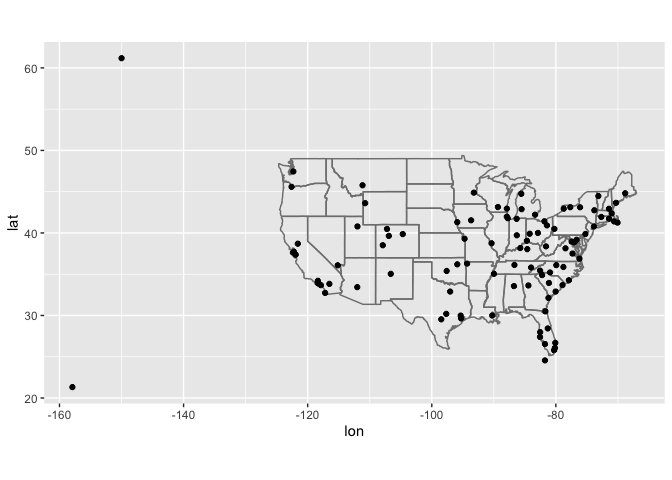
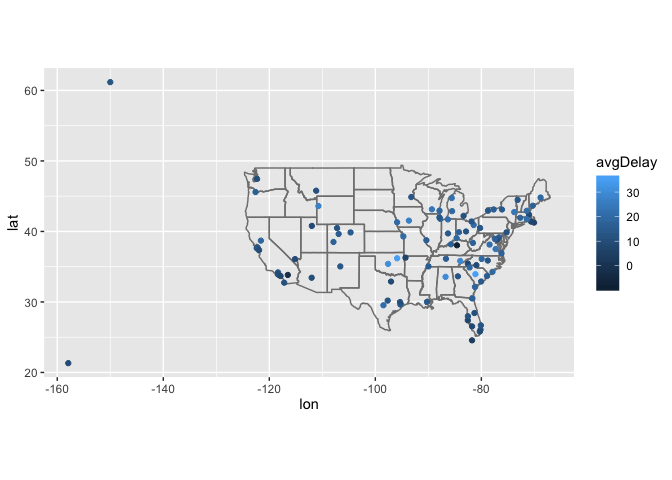
my changes

diff --git a/README.md b/README.md
@@ -1,43 +1,95 @@
 Midterm.
 --------
 
-#### 1. Map the delay by destination.
+\#install.packages(“maps”) \#\#\#\# 1. Map the delay by destination.
 
 Compute the average delay by destination, then join on the airports data
 frame so you can show the spatial distribution of delays. Here’s an easy
 way to draw a map of the United States. You are welcome to use this code
 or some other code.
 
+    #flights
+    #planes
+    #airlines
+    #airports
+    #weather
     library(tidyverse)
 
-    ## ── Attaching packages ────────────────────────────────── tidyverse 1.3.0 ──
+    ## ── Attaching packages ─────────────────────────────────────── tidyverse 1.3.0 ──
 
     ## ✓ ggplot2 3.2.1     ✓ purrr   0.3.3
-    ## ✓ tibble  2.1.3     ✓ dplyr   0.8.3
-    ## ✓ tidyr   1.0.0     ✓ stringr 1.4.0
+    ## ✓ tibble  2.1.3     ✓ dplyr   0.8.4
+    ## ✓ tidyr   1.0.2     ✓ stringr 1.4.0
     ## ✓ readr   1.3.1     ✓ forcats 0.4.0
 
-    ## ── Conflicts ───────────────────────────────────── tidyverse_conflicts() ──
+    ## ── Conflicts ────────────────────────────────────────── tidyverse_conflicts() ──
     ## x dplyr::filter() masks stats::filter()
     ## x dplyr::lag()    masks stats::lag()
 
     library(nycflights13)
+    flights = nycflights13::flights
+
+
+    flights2 = flights %>% group_by(dest) %>%
+      summarize(avgDelay = mean(dep_delay, na.rm = TRUE)) 
 
     airports %>%
-      semi_join(flights, c("faa" = "dest")) %>%
+      right_join(flights2,c("faa" = "dest")) %>%
       ggplot(aes(lon, lat)) +
-      borders("state") +
-      geom_point() +
+      borders("state")+ 
+      geom_point(aes(colour = avgDelay)) +
+      scale_size_area()+
       coord_quickmap()
+
+    ## Warning: Removed 4 rows containing missing values (geom_point).
 
 ![](README_files/figure-markdown_strict/unnamed-chunk-1-1.png)
 
-You might want to use the size or colour of the points to display the
-average delay for each airport.
+#### 2. Do planes trade ownership?
 
-    flights
+You might expect that there’s an implicit relationship between plane and
+airline, because each plane is flown by a single airline. Confirm or
+reject this conjecture using data.
 
-    ## # A tibble: 336,776 x 19
+This analysis shows that there are duplicated tailnums used by each
+unique airline/tailnum pair. Therefore each plane is not flown by a
+single airline so I reject this conjecture
+
+    planes_unique = planes %>% left_join(flights, "tailnum")
+    planes2 = planes_unique %>% select(carrier, tailnum) %>%
+      distinct()
+    planes2
+
+    ## # A tibble: 3,339 x 2
+    ##    carrier tailnum
+    ##    <chr>   <chr>  
+    ##  1 EV      N10156 
+    ##  2 US      N102UW 
+    ##  3 US      N103US 
+    ##  4 US      N104UW 
+    ##  5 EV      N10575 
+    ##  6 US      N105UW 
+    ##  7 US      N107US 
+    ##  8 US      N108UW 
+    ##  9 US      N109UW 
+    ## 10 US      N110UW 
+    ## # … with 3,329 more rows
+
+    planes2$tailnum[duplicated(planes2$tailnum)]
+
+    ##  [1] "N146PQ" "N153PQ" "N176PQ" "N181PQ" "N197PQ" "N200PQ" "N228PQ" "N232PQ"
+    ##  [9] "N933AT" "N935AT" "N977AT" "N978AT" "N979AT" "N981AT" "N989AT" "N990AT"
+    ## [17] "N994AT"
+
+#### 3. Plane’s average speed.
+
+Notice that `flights$air_time` is in minutes. Make a new column that is
+the air time in hours.
+
+    flights_1 = flights %>% mutate(air_timeHours = (air_time / 60))
+    flights_1
+
+    ## # A tibble: 336,776 x 20
     ##     year month   day dep_time sched_dep_time dep_delay arr_time sched_arr_time
     ##    <int> <int> <int>    <int>          <int>     <dbl>    <int>          <int>
     ##  1  2013     1     1      517            515         2      830            819
@@ -50,100 +102,10 @@ average delay for each airport.
     ##  8  2013     1     1      557            600        -3      709            723
     ##  9  2013     1     1      557            600        -3      838            846
     ## 10  2013     1     1      558            600        -2      753            745
-    ## # … with 336,766 more rows, and 11 more variables: arr_delay <dbl>,
+    ## # … with 336,766 more rows, and 12 more variables: arr_delay <dbl>,
     ## #   carrier <chr>, flight <int>, tailnum <chr>, origin <chr>, dest <chr>,
-    ## #   air_time <dbl>, distance <dbl>, hour <dbl>, minute <dbl>, time_hour <dttm>
-
-    planes
-
-    ## # A tibble: 3,322 x 9
-    ##    tailnum  year type          manufacturer   model  engines seats speed engine 
-    ##    <chr>   <int> <chr>         <chr>          <chr>    <int> <int> <int> <chr>  
-    ##  1 N10156   2004 Fixed wing m… EMBRAER        EMB-1…       2    55    NA Turbo-…
-    ##  2 N102UW   1998 Fixed wing m… AIRBUS INDUST… A320-…       2   182    NA Turbo-…
-    ##  3 N103US   1999 Fixed wing m… AIRBUS INDUST… A320-…       2   182    NA Turbo-…
-    ##  4 N104UW   1999 Fixed wing m… AIRBUS INDUST… A320-…       2   182    NA Turbo-…
-    ##  5 N10575   2002 Fixed wing m… EMBRAER        EMB-1…       2    55    NA Turbo-…
-    ##  6 N105UW   1999 Fixed wing m… AIRBUS INDUST… A320-…       2   182    NA Turbo-…
-    ##  7 N107US   1999 Fixed wing m… AIRBUS INDUST… A320-…       2   182    NA Turbo-…
-    ##  8 N108UW   1999 Fixed wing m… AIRBUS INDUST… A320-…       2   182    NA Turbo-…
-    ##  9 N109UW   1999 Fixed wing m… AIRBUS INDUST… A320-…       2   182    NA Turbo-…
-    ## 10 N110UW   1999 Fixed wing m… AIRBUS INDUST… A320-…       2   182    NA Turbo-…
-    ## # … with 3,312 more rows
-
-    airlines
-
-    ## # A tibble: 16 x 2
-    ##    carrier name                       
-    ##    <chr>   <chr>                      
-    ##  1 9E      Endeavor Air Inc.          
-    ##  2 AA      American Airlines Inc.     
-    ##  3 AS      Alaska Airlines Inc.       
-    ##  4 B6      JetBlue Airways            
-    ##  5 DL      Delta Air Lines Inc.       
-    ##  6 EV      ExpressJet Airlines Inc.   
-    ##  7 F9      Frontier Airlines Inc.     
-    ##  8 FL      AirTran Airways Corporation
-    ##  9 HA      Hawaiian Airlines Inc.     
-    ## 10 MQ      Envoy Air                  
-    ## 11 OO      SkyWest Airlines Inc.      
-    ## 12 UA      United Air Lines Inc.      
-    ## 13 US      US Airways Inc.            
-    ## 14 VX      Virgin America             
-    ## 15 WN      Southwest Airlines Co.     
-    ## 16 YV      Mesa Airlines Inc.
-
-    airports
-
-    ## # A tibble: 1,458 x 8
-    ##    faa   name                       lat    lon   alt    tz dst   tzone          
-    ##    <chr> <chr>                    <dbl>  <dbl> <dbl> <dbl> <chr> <chr>          
-    ##  1 04G   Lansdowne Airport         41.1  -80.6  1044    -5 A     America/New_Yo…
-    ##  2 06A   Moton Field Municipal A…  32.5  -85.7   264    -6 A     America/Chicago
-    ##  3 06C   Schaumburg Regional       42.0  -88.1   801    -6 A     America/Chicago
-    ##  4 06N   Randall Airport           41.4  -74.4   523    -5 A     America/New_Yo…
-    ##  5 09J   Jekyll Island Airport     31.1  -81.4    11    -5 A     America/New_Yo…
-    ##  6 0A9   Elizabethton Municipal …  36.4  -82.2  1593    -5 A     America/New_Yo…
-    ##  7 0G6   Williams County Airport   41.5  -84.5   730    -5 A     America/New_Yo…
-    ##  8 0G7   Finger Lakes Regional A…  42.9  -76.8   492    -5 A     America/New_Yo…
-    ##  9 0P2   Shoestring Aviation Air…  39.8  -76.6  1000    -5 U     America/New_Yo…
-    ## 10 0S9   Jefferson County Intl     48.1 -123.    108    -8 A     America/Los_An…
-    ## # … with 1,448 more rows
-
-    weather
-
-    ## # A tibble: 26,115 x 15
-    ##    origin  year month   day  hour  temp  dewp humid wind_dir wind_speed
-    ##    <chr>  <int> <int> <int> <int> <dbl> <dbl> <dbl>    <dbl>      <dbl>
-    ##  1 EWR     2013     1     1     1  39.0  26.1  59.4      270      10.4 
-    ##  2 EWR     2013     1     1     2  39.0  27.0  61.6      250       8.06
-    ##  3 EWR     2013     1     1     3  39.0  28.0  64.4      240      11.5 
-    ##  4 EWR     2013     1     1     4  39.9  28.0  62.2      250      12.7 
-    ##  5 EWR     2013     1     1     5  39.0  28.0  64.4      260      12.7 
-    ##  6 EWR     2013     1     1     6  37.9  28.0  67.2      240      11.5 
-    ##  7 EWR     2013     1     1     7  39.0  28.0  64.4      240      15.0 
-    ##  8 EWR     2013     1     1     8  39.9  28.0  62.2      250      10.4 
-    ##  9 EWR     2013     1     1     9  39.9  28.0  62.2      260      15.0 
-    ## 10 EWR     2013     1     1    10  41    28.0  59.6      260      13.8 
-    ## # … with 26,105 more rows, and 5 more variables: wind_gust <dbl>, precip <dbl>,
-    ## #   pressure <dbl>, visib <dbl>, time_hour <dttm>
-
-    # put your answer here.
-
-#### 2. Do planes trade ownership?
-
-You might expect that there’s an implicit relationship between plane and
-airline, because each plane is flown by a single airline. Confirm or
-reject this conjecture using data.
-
-    # put your answer here. 
-
-#### 3. Plane’s average speed.
-
-Notice that `flights$air_time` is in minutes. Make a new column that is
-the air time in hours.
-
-    # put your answer here.  
+    ## #   air_time <dbl>, distance <dbl>, hour <dbl>, minute <dbl>, time_hour <dttm>,
+    ## #   air_timeHours <dbl>
 
 #### 4. Average speed
 
@@ -152,7 +114,17 @@ hour). Then, for each plane, compute the average of those average
 speeds. Display it in a histogram. You can use a base R histogram `hist`
 or ggplot’s `geom_histogram`.
 
-    # put your answer here.  
+    flights_1 %>% mutate(avgSpeed = distance/air_timeHours)%>%
+      group_by(tailnum)%>%
+      summarize(avgAllPlanes = mean(avgSpeed, na.rm=TRUE)) %>%
+      ggplot(aes(avgAllPlanes))+
+      geom_histogram()
+
+    ## `stat_bin()` using `bins = 30`. Pick better value with `binwidth`.
+
+    ## Warning: Removed 7 rows containing non-finite values (stat_bin).
+
+![](README_files/figure-markdown_strict/unnamed-chunk-4-1.png)
 
 #### 5. What correlates with average speed?
 
